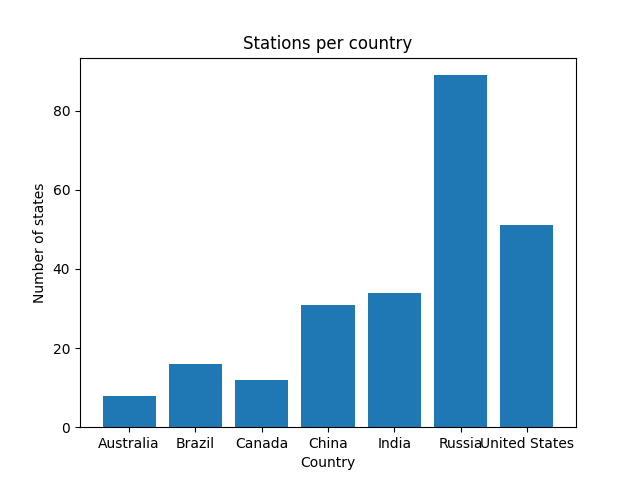
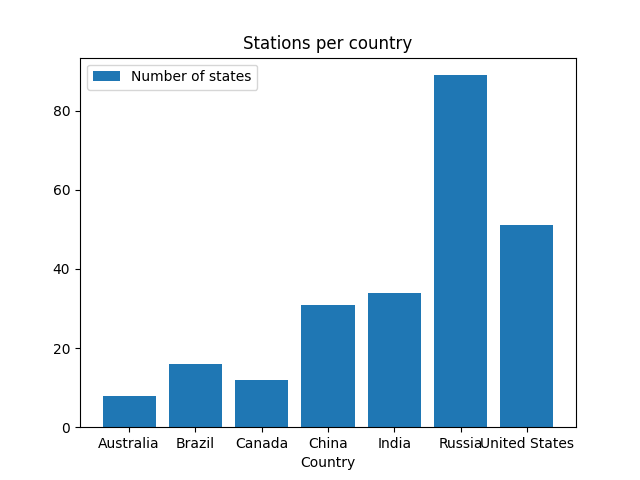
Multiples líneas, scatter e histograma añadidos

Changed region(s): [[0.125, 0.125, 0.4062, 0.1875], [0.0312, 0.5312, 0.0938, 0.625], [0.0312, 0.375, 0.0625, 0.5]]

diff --git a/src/practica1.py b/src/practica1.py
@@ -1,8 +1,10 @@
 from abc import ABC, abstractmethod         # Module abc (Abstract Base Classes)
 from typing import List
+from mpl_toolkits.basemap import Basemap, cm
 
 import matplotlib.pyplot as plt
 import pandas as pd
+import numpy as np
 
 
 # Common interface to all concrete representations 
@@ -12,7 +14,7 @@ class Representation(ABC):
     """
 
     @abstractmethod
-    def makeChart(self, xaxis : List, yaxis : List, metadata: dict) -> None:
+    def makeChart(self, xaxis = [], yaxis = [], metadata = {}) -> None:
         pass
 
 
@@ -21,24 +23,70 @@ Concrete Representation subclasses implement different representations
 """
 
 class LineChart(Representation):
-    def makeChart(self, xaxis : List, yaxis : List, metadata: dict) -> None:
+    def makeChart(self, xaxis = [], yaxis = [], metadata = {}) -> None:
         fig = plt.figure()
-        plt.plot(xaxis, yaxis)
+
+        for i in range(len(yaxis)):
+            plt.plot(xaxis, yaxis[i], label=metadata['ylabel'][i])
+        
         plt.title(metadata['title'])
         plt.xlabel(metadata['xlabel'])
-        plt.ylabel(metadata['ylabel'])
+        plt.legend()
         fig.autofmt_xdate()
         plt.savefig("output/" + metadata['output'] + "_linechart")
 
 
 class BarChart(Representation):
-    def makeChart(self, xaxis : List, yaxis : List, metadata: dict) -> None:
+    def makeChart(self, xaxis = [], yaxis = [], metadata = {}) -> None:
         fig = plt.figure()
-        plt.bar(xaxis, yaxis)
+
+        for i in range(len(yaxis)):
+            plt.bar(xaxis, yaxis[i], label=metadata['ylabel'][i])
+
         plt.title(metadata['title'])
         plt.xlabel(metadata['xlabel'])
-        plt.ylabel(metadata['ylabel'])
+        plt.legend()
+        fig.autofmt_xdate()
         plt.savefig("output/" + metadata['output'] + "_barchart")
+
+
+class Histogram(Representation):
+    def makeChart(self, xaxis = [], yaxis = [], metadata = {}) -> None:
+        fig = plt.figure()
+        plt.hist(yaxis)
+        plt.title(metadata['title'])
+        plt.xlabel(metadata['xlabel'])
+        plt.ylabel(metadata['ylabel'][0])
+        plt.savefig("output/" + metadata['output'] + "_histogram")
+
+
+class Scatter(Representation):
+    def makeChart(self, xaxis = [], yaxis = [], metadata = {}) -> None:
+        fig = plt.figure()
+
+        plt.scatter(xaxis, yaxis, cmap='viridis')
+
+        plt.title(metadata['title'])
+        plt.xlabel(metadata['xlabel'])
+        plt.ylabel(metadata['ylabel'][0])
+        plt.savefig("output/" + metadata['output'] + "_scatter")
+
+
+class GeoScatter(Representation):
+    def makeChart(self, xaxis = [], yaxis = [], metadata = {}) -> None:
+        fig = plt.figure()
+
+        fig = plt.figure(num=None, figsize=(12, 8) )
+        m = Basemap(projection='merc', llcrnrlat=-80, urcrnrlat=80, llcrnrlon=-180, urcrnrlon=180,resolution='c')
+        m.drawcoastlines()
+        
+        m.scatter(yaxis, xaxis, s = 2)
+
+        plt.xlim(-180, 180)
+        plt.ylim(-90, 90)
+        plt.title(metadata['title'])
+        plt.savefig("output/" + metadata['output'] + "_geoscatter")
+
 
 
 class Context():
@@ -67,7 +115,7 @@ class Context():
         self._metadata = metadata
 
 
-    def makeChart(self, xaxis : List, yaxis : List) -> None:
+    def makeChart(self, xaxis = [], yaxis = []) -> None:
         """
         Delegates some work to the strategy object
         """
@@ -83,45 +131,151 @@ if __name__ == "__main__":
 
     # Data sources
 
-    df1 = pd.read_csv("data/GlobalTemperatures.csv")
+    df1 = df5 = df7 = pd.read_csv("data/GlobalTemperatures.csv")
     df2 = pd.read_csv("data/GlobalLandTemperaturesByState.csv")
+    df3 = df6 = pd.read_csv("data/GlobalLandTemperaturesByCity.csv")
+    df4 = pd.read_csv("data/GlobalLandTemperaturesByMajorCity.csv")
 
+    # # Line chart
+
+    # df1 = df1[df1.dt.str.contains(r'-01-01')]       # Only January's results
+    # NUM_DATA = 20
+
+    # col_date = df1['dt'].tail(NUM_DATA).tolist()
+    # col_date = list(map(lambda each : each[0:4], col_date))
+
+    # col_landMaxTemperature = df1['LandMaxTemperature'].tail(NUM_DATA).tolist()
+    # col_landMinTemperature = df1['LandMinTemperature'].tail(NUM_DATA).tolist()
+    # col_landAverageTemperature = df1['LandAverageTemperature'].tail(NUM_DATA).tolist()
+
+    # columns = [col_landMaxTemperature, col_landAverageTemperature, col_landMinTemperature] 
+
+    # metadata1 = {
+    #     "xlabel": "Year",
+    #     "ylabel": [
+    #         "Max. Temp", 
+    #         "Ave. Temp",
+    #         "Min. Temp", 
+    #     ],
+    #     "title": "Global Temperatures at January",
+    #     "output": "plot",
+    # }
+
+    # context1 = Context(LineChart())
+    # context1._metadata = metadata1
+    # context1.makeChart(col_date, columns)
+
+
+    # # Bar chart
+
+    # df2 = df2.groupby(["Country", "State"])["State"].count().reset_index(name="nentries")
+    # df2 = df2.groupby("Country")["State"].count().reset_index(name="nstates")
+
+    # col_countries = df2['Country'].tolist()
+    # col_nstates = [ df2['nstates'].tolist() ]
+
+    # metadata2 = {
+    #     "xlabel": "Country",
+    #     "ylabel": [
+    #         "Number of states",
+    #     ],
+    #     "title": "Stations per country",
+    #     "output": "plot",
+    # }
+
+    # context2 = Context(BarChart())
+    # context2._metadata = metadata2
+    # context2.makeChart(col_countries, col_nstates)
+
+
+    # Multiple bar chart
+
+    df3 = df3.groupby(["Country", "City"])["City"].count().reset_index(name="nentries")
+    df3 = df3.groupby("Country")["City"].count().reset_index(name="ncities")
+
+    df4 = df4.groupby(["Country", "City"])["City"].count().reset_index(name="nentries")
+    df4 = df4.groupby("Country")["City"].count().reset_index(name="nmajorcities")
     
-    # Line chart
+    df34 = pd.merge(df3, df4, on="Country")
 
-    col_date = df1['dt'].tail(50).tolist()
-    col_landAverageTemperature = df1['LandMaxTemperature'].tail(50).tolist()
+    # df34 = df34.loc[df34['Country'].isin(['United States', 'Russia', 'South Africa', 'Brazil', 'Pakistan'])]
+    df34 = df34.sample(n = 9, random_state = 1)
 
-    metadata1 = {
-        "xlabel": "LandMaxTemperature",
-        "ylabel": "Date",
-        "title": "Global Temperatures",
-        "output": "plot",
-    }
+    col_countries = df34['Country'].tolist()
+    col_ncities = df34['ncities'].tolist()
+    col_nmajorcities = df34['nmajorcities'].tolist()
 
-    context1 = Context(LineChart())
-    context1._metadata = metadata1
-    context1.makeChart(col_date, col_landAverageTemperature)
-
-
-    # Bar chart
-
-    df2 = df2.groupby(["Country", "State"])["State"].count().reset_index(name="nentries")
-    df2 = df2.groupby("Country")["State"].count().reset_index(name="nstates")
-
-    col_countries = df2['Country'].tolist()
-    col_nstates = df2['nstates'].tolist()
-
-    metadata2 = {
+    metadata3 = {
         "xlabel": "Country",
-        "ylabel": "Number of states",
-        "title": "Stations per country",
-        "output": "plot",
+        "ylabel": [
+            "Number of cities",
+            "Number of major cities",
+        ],
+        "title": "Cities and Major cities per country",
+        "output": "plot_multidata",
     }
 
-    context2 = Context(BarChart())
-    context2._metadata = metadata2
-    context2.makeChart(col_countries, col_nstates)
+    context3 = Context(BarChart())
+    context3._metadata = metadata3
+    context3.makeChart(col_countries, [col_ncities, col_nmajorcities])
+
+    # # Histogram
+
+    # col_landAverageTemperature = df5['LandAverageTemperature'].tolist()
+
+    # metadata5 = {
+    #     "xlabel": "Temperature (in ºC)",
+    #     "ylabel": [
+    #         "Nº measurement", 
+    #     ],
+    #     "title": "Global Temperatures",
+    #     "output": "plot",
+    # }
+
+    # context5 = Context(Histogram())
+    # context5._metadata = metadata5
+    # context5.makeChart(yaxis = col_landAverageTemperature)
+
+
+    # # Scatter on map
+
+    # col_latitude = df6['Latitude'].tolist()
+    # col_longitude = df6['Longitude'].tolist()
+
+    # for i in range(len(col_latitude)):
+    #     col_latitude[i] = float(col_latitude[i][:-1]) if (col_latitude[i][-1] == 'N') else -float(col_latitude[i][:-1])
+
+    # for i in range(len(col_longitude)):
+    #     col_longitude[i] = float(col_longitude[i][:-1]) if (col_longitude[i][-1] == 'W') else -float(col_longitude[i][:-1])
+
+    # metadata6 = {
+    #     "title": "Cities in the World",
+    #     "output": "plot",
+    # }
+
+    # context6 = Context(GeoScatter())
+    # context6._metadata = metadata6
+    # context6.makeChart(col_latitude, col_longitude)
+
+
+    # # Scatter
+
+    # df7 = df7.dropna()
+    # max_temperature = df7['LandMaxTemperature'].tolist()
+    # min_temperature = df7['LandMinTemperature'].tolist()
+
+    # metadata7 = {
+    #     "xlabel": "Max. Temp",
+    #     "ylabel": [
+    #         "Min. Temp",
+    #     ],
+    #     "title": "Global Maximun Temperatures Distribution ",
+    #     "output": "plot",
+    # }
+
+    # context7 = Context(Scatter())
+    # context7._metadata = metadata7
+    # context7.makeChart(max_temperature, min_temperature)
 
 
     print("Exiting...")
